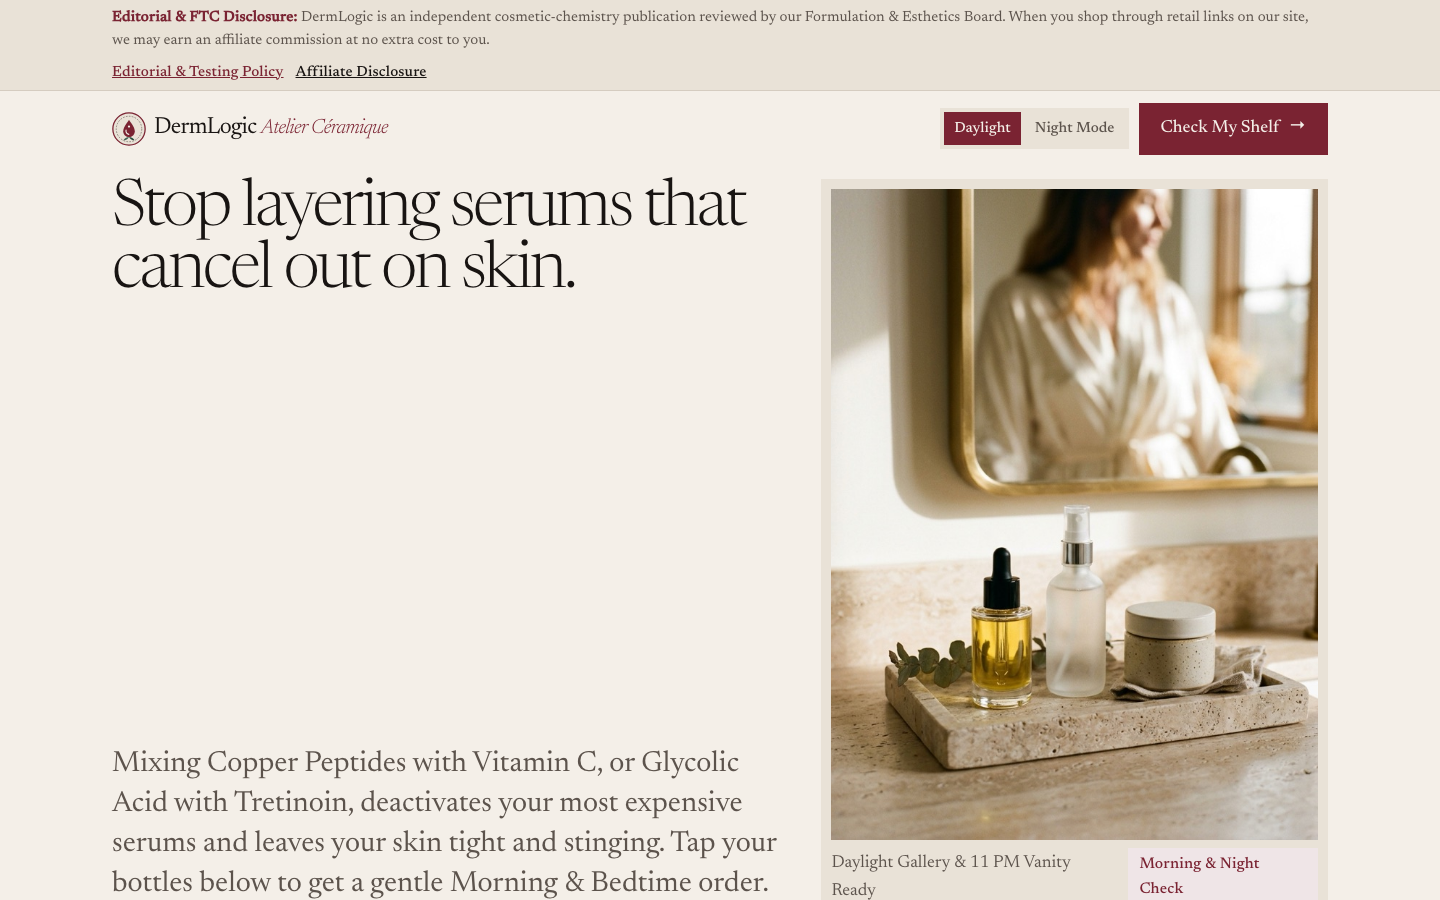
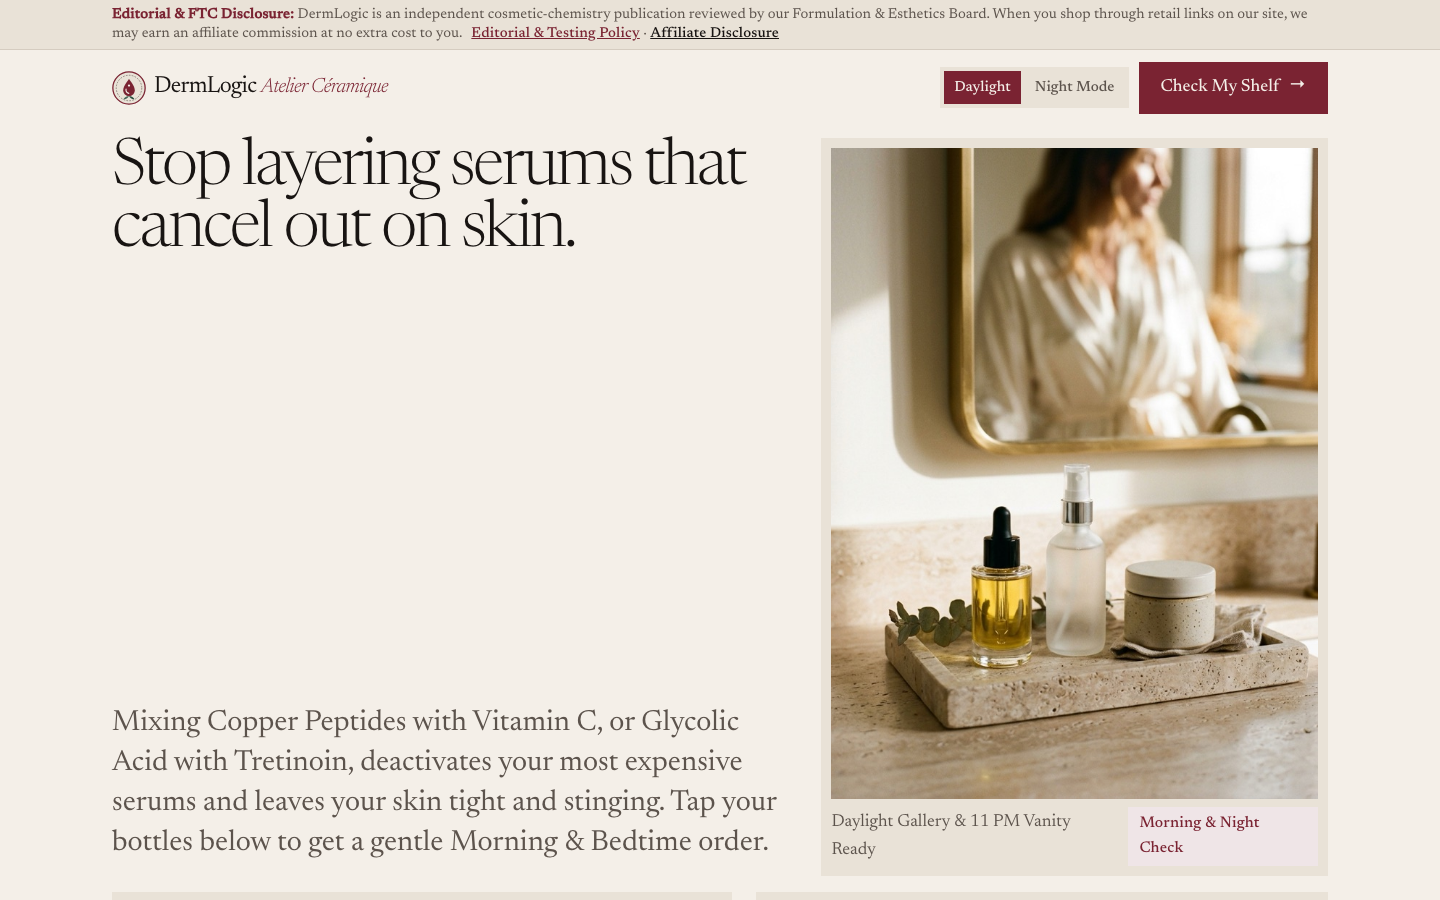
style(compliance): inline Editorial & Testing Policy and Affiliate Disclosure links in top FTC bar

diff --git a/src/endowment-sovrn.js b/src/endowment-sovrn.js
@@ -107,13 +107,9 @@ function getConflictSafeSwap(conflict) {
 }
 
 function renderAboveFoldSovrnDisclosureBar() {
-  return `<div id="sovrn-ftc-disclosure-bar" role="region" aria-label="Editorial and Affiliate Disclosure" style="background:var(--bg-oat);border-bottom:1px solid var(--border-hairline);padding:6px 0;font-size:0.78rem;color:var(--text-secondary);">
-    <div class="container" style="display:flex;justify-content:space-between;align-items:center;flex-wrap:wrap;gap:8px;">
-      <span><strong class="mono" style="color:var(--rose-brand);font-weight:600;">Editorial &amp; FTC Disclosure:</strong> DermLogic is an independent cosmetic-chemistry publication reviewed by our Formulation &amp; Esthetics Board. When you shop through retail links on our site, we may earn an affiliate commission at no extra cost to you.</span>
-      <span style="display:inline-flex;gap:12px;flex-wrap:wrap;font-weight:500;">
-        <a href="/editorial-policy" class="mono" style="color:var(--rose-brand);text-decoration:underline;">Editorial &amp; Testing Policy</a>
-        <a href="/editorial-policy#affiliate-disclosure" class="mono" style="color:var(--text-primary);text-decoration:underline;">Affiliate Disclosure</a>
-      </span>
+  return `<div id="sovrn-ftc-disclosure-bar" role="region" aria-label="Editorial and Affiliate Disclosure" style="background:var(--bg-oat);border-bottom:1px solid var(--border-hairline);padding:5px 0;font-size:0.76rem;line-height:1.35;color:var(--text-secondary);">
+    <div class="container">
+      <strong class="mono" style="color:var(--rose-brand);font-weight:600;">Editorial &amp; FTC Disclosure:</strong> DermLogic is an independent cosmetic-chemistry publication reviewed by our Formulation &amp; Esthetics Board. When you shop through retail links on our site, we may earn an affiliate commission at no extra cost to you. <a href="/editorial-policy" class="mono" style="color:var(--rose-brand);font-weight:500;text-decoration:underline;margin-left:6px;white-space:nowrap;">Editorial &amp; Testing Policy</a> &middot; <a href="/editorial-policy#affiliate-disclosure" class="mono" style="color:var(--text-primary);font-weight:500;text-decoration:underline;white-space:nowrap;">Affiliate Disclosure</a>
     </div>
   </div>`;
 }
